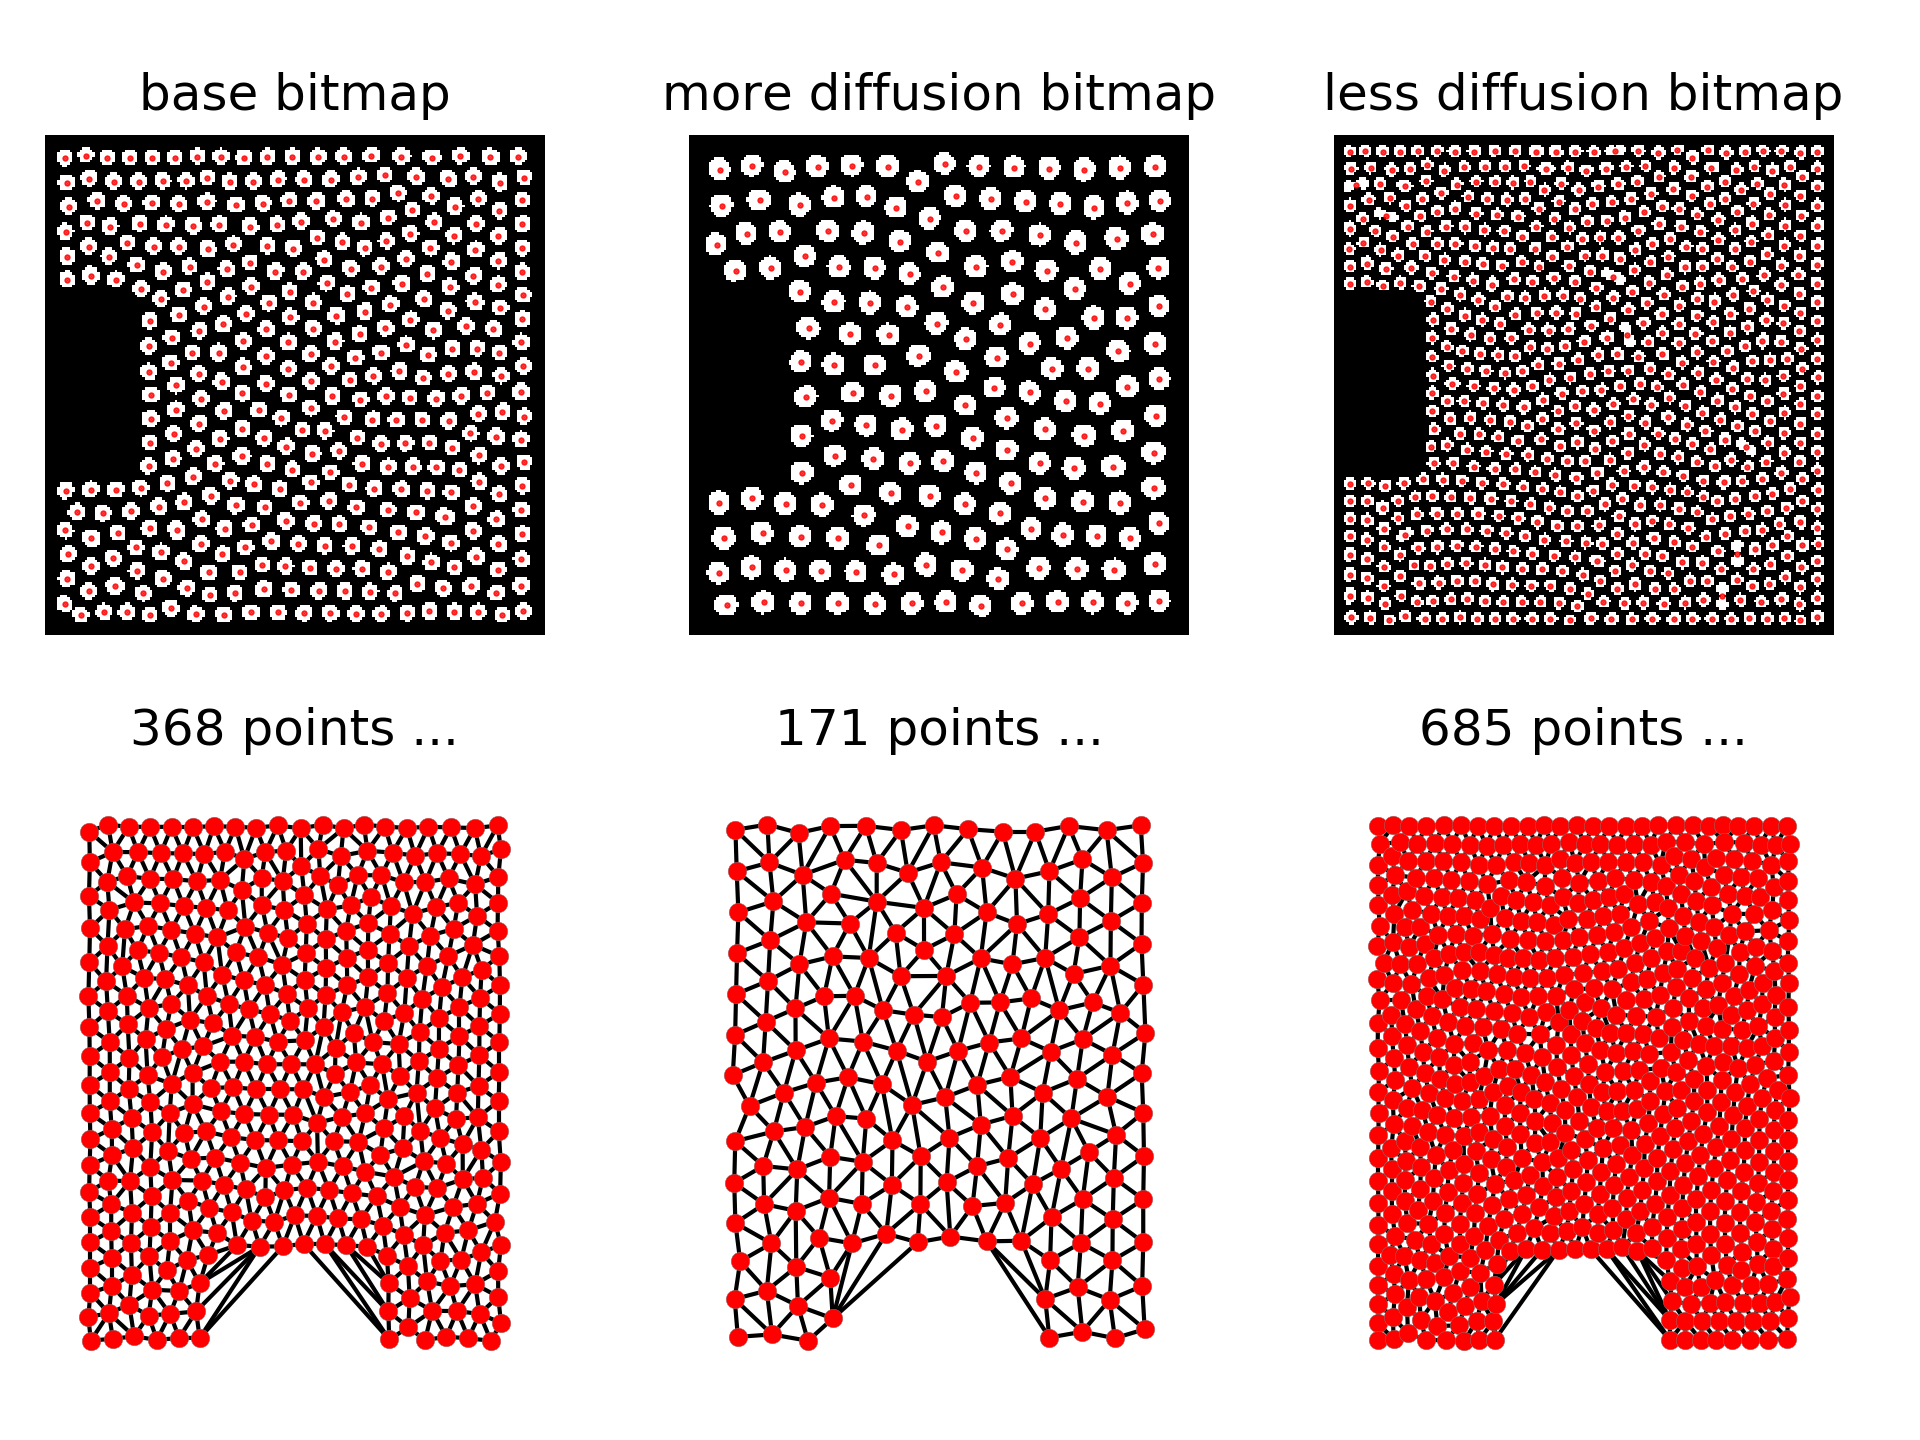
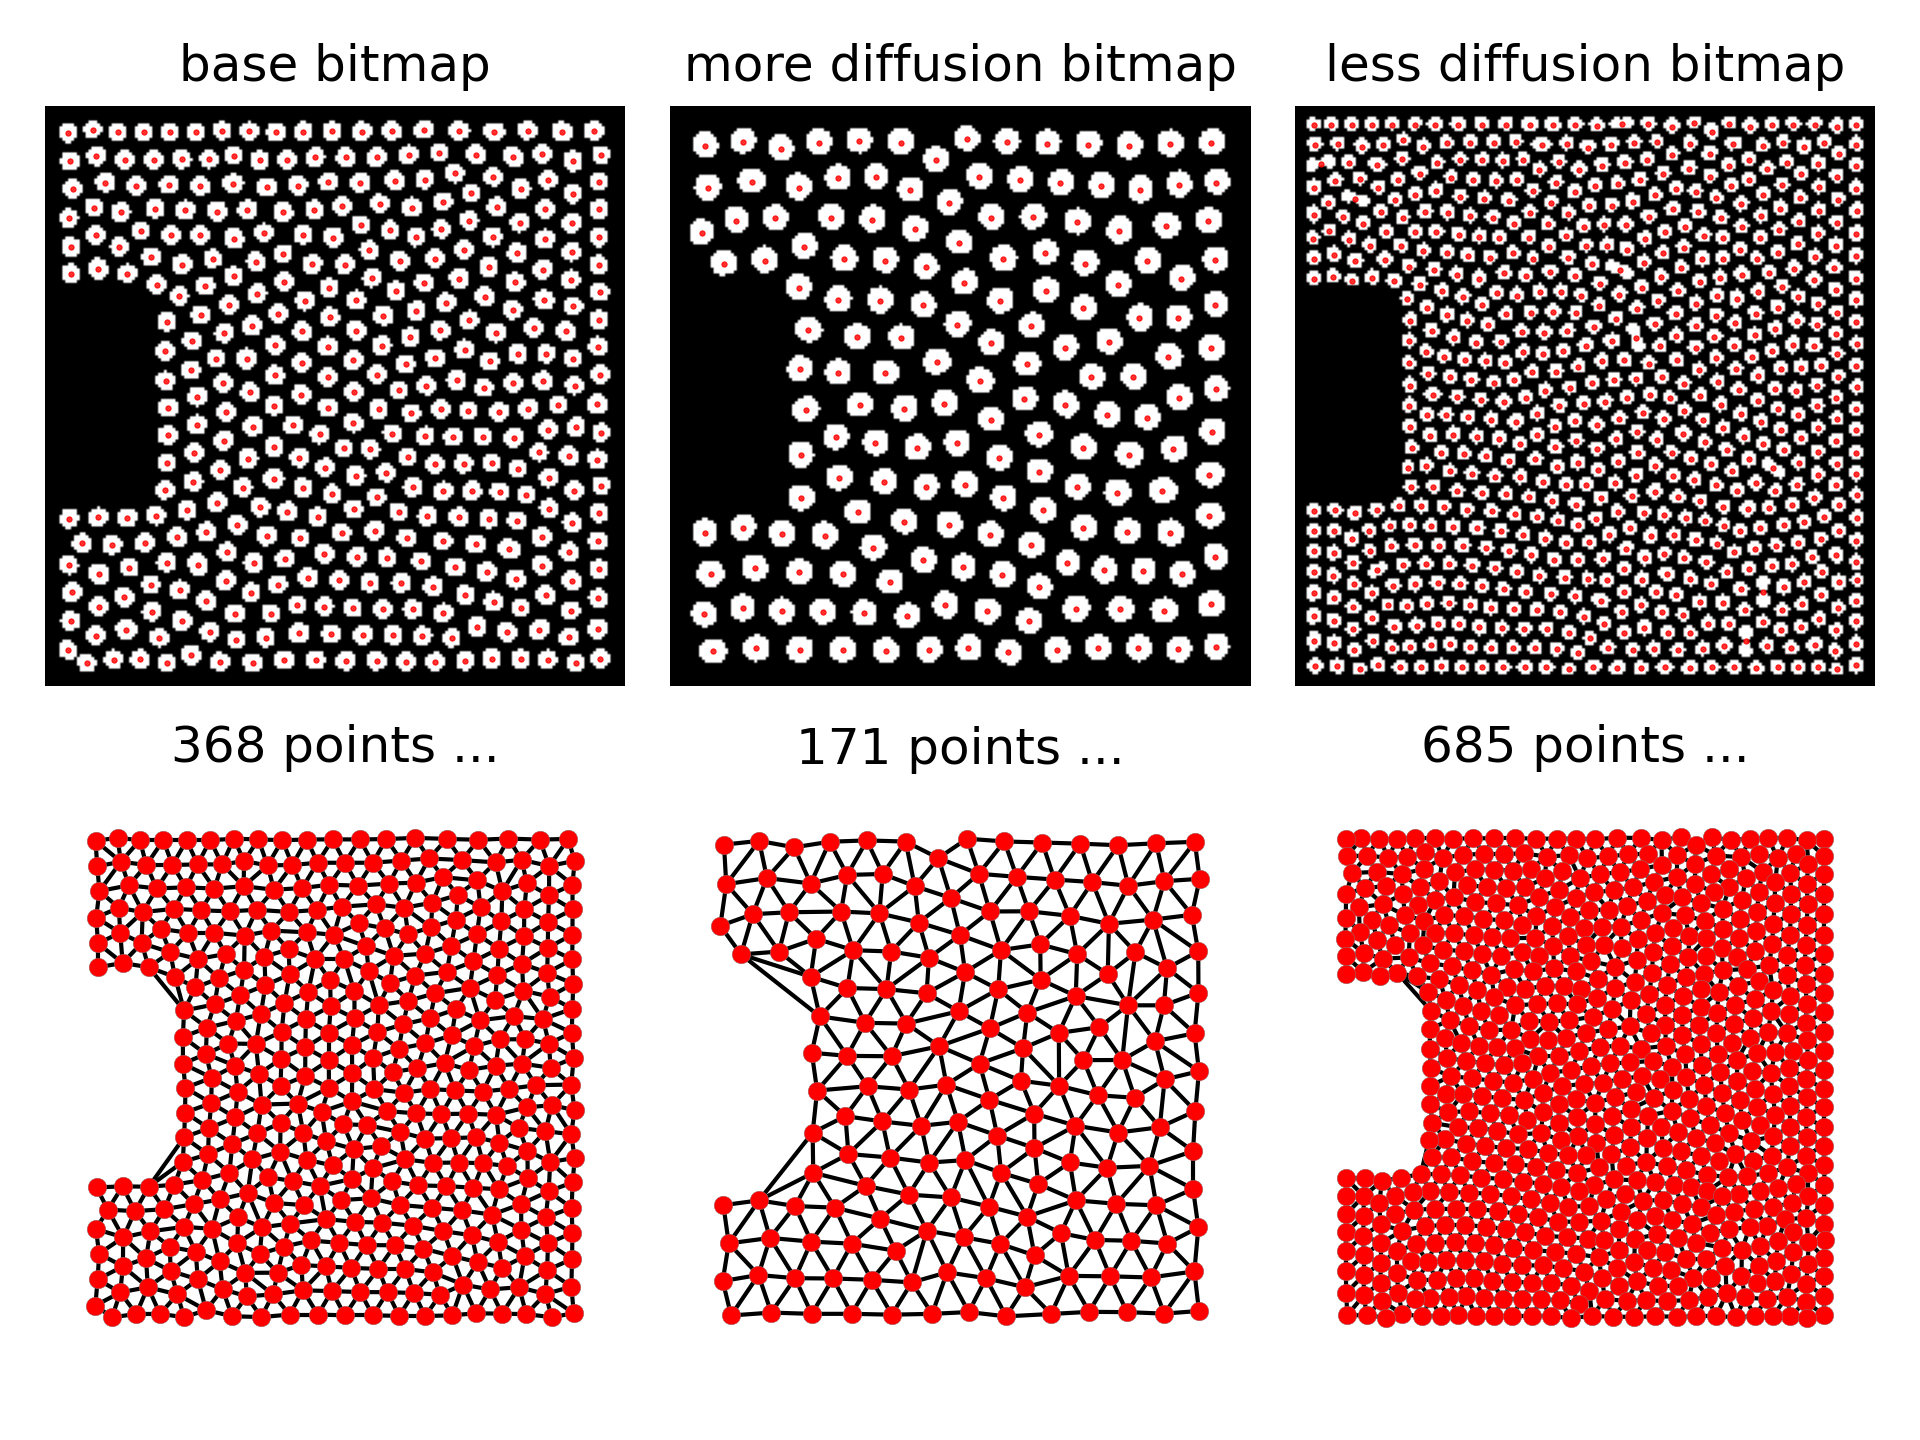
correct orientation

diff --git a/learn/reaction_diffusion/rd4mapf-rms.py b/learn/reaction_diffusion/rd4mapf-rms.py
@@ -92,11 +92,8 @@ def bitmap_to_point_poses(bitmap: np.ndarray) -> np.ndarray:
 
 
 def sim(gray_scott_update, get_initial_configuration, delta_t, N,
-        N_simulation_steps, A_bg, B_bg, experiments):
+        N_simulation_steps, A_bg, B_bg, experiments, mask):
     results: Dict[str, Dict[str, np.ndarray]] = {}
-
-    mask = np.zeros((N, N), dtype=bool)
-    mask[N//3:2*N//3, 0:N//6] = True
 
     for experiment_name, experiment in experiments.items():
         A, B = get_initial_configuration(N)
@@ -124,10 +121,11 @@ def draw():
     plt.savefig("learn/reaction_diffusion/rd4mapf-rms.png")
 
 
-def processing():
+def processing(mask):
     d = pkl.load(open("learn/reaction_diffusion/rd4mapf-rms.pkl", "rb"))
     ncols = len(d)
     fig, axes = plt.subplots(nrows=2, ncols=ncols)
+    map_img = tuple((np.logical_not(mask) * 255).astype(np.uint8))
     for i, (experiment, data) in enumerate(d.items()):
         assert "B" in data.keys()
         bitmap = data["B"] > data["B"].mean()
@@ -145,7 +143,7 @@ def processing():
 
         axes[1, i].set_title(f"{len(point_poses)} points ...")
         g, _ = make_graph_and_flann(pos=torch.Tensor(point_poses),
-                                    map_img=((255,),),
+                                    map_img=map_img,
                                     desired_n_nodes=len(point_poses))
         pos = nx.get_node_attributes(g, POS)
         options = {
@@ -157,12 +155,13 @@ def processing():
             "width": 1,
             "with_labels": False
         }
-        pos_dict = {i: pos[i] for i in g.nodes()}
+        pos_dict = {i: [pos[i][1], -pos[i][0]] for i in g.nodes()}
         for e in g.edges():
             a, b = e
             if a == b:
                 g.remove_edge(a, b)
         nx.draw_networkx(g, pos_dict, **options)
+        axes[1, i].set_aspect("equal")
         axes[1, i].axis("off")
 
     fig.tight_layout()
@@ -212,7 +211,10 @@ if __name__ == "__main__":
         },
     }
 
+    mask = np.zeros((N, N), dtype=bool)
+    mask[N//3:2*N//3, 0:N//6] = True
+
     # sim(gray_scott_update, get_initial_configuration,
-    #     delta_t, N, N_simulation_steps, A_bg, B_bg, experiments)
+    #     delta_t, N, N_simulation_steps, A_bg, B_bg, experiments, mask)
     # draw()
-    processing()
+    processing(mask)
